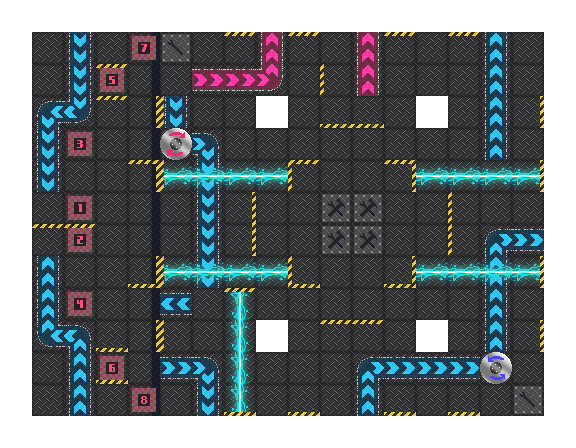
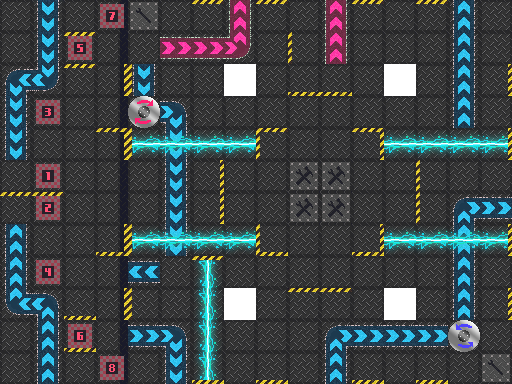
Map properly displayed as background, flags to be placed displayed to the left  - Added methods to calculate if mouse click is inside the map  - Added numbers to be used to convert mouse x and y to map position  - new background for setting up map

diff --git a/src/main/java/inf112/roborally/game/screens/SetupScreen.java b/src/main/java/inf112/roborally/game/screens/SetupScreen.java
@@ -4,13 +4,19 @@ import com.badlogic.gdx.Gdx;
 import com.badlogic.gdx.Input;
 import com.badlogic.gdx.graphics.Texture;
 import com.badlogic.gdx.graphics.g2d.Sprite;
+import com.badlogic.gdx.graphics.g2d.TextureAtlas;
+import com.badlogic.gdx.graphics.g2d.TextureRegion;
 import com.badlogic.gdx.scenes.scene2d.InputEvent;
 import com.badlogic.gdx.scenes.scene2d.Stage;
+import com.badlogic.gdx.scenes.scene2d.ui.Image;
 import com.badlogic.gdx.scenes.scene2d.ui.ImageButton;
 import com.badlogic.gdx.scenes.scene2d.utils.ClickListener;
 import com.badlogic.gdx.scenes.scene2d.utils.TextureRegionDrawable;
+import com.badlogic.gdx.utils.Align;
 import inf112.roborally.game.RoboRallyGame;
 import inf112.roborally.game.enums.SetupState;
+import inf112.roborally.game.objects.Flag;
+import org.lwjgl.Sys;
 
 import java.util.ArrayList;
 
@@ -21,6 +27,20 @@ public class SetupScreen extends AbstractScreen {
     private SetupState state;
 
     private ArrayList<Sprite> information;
+    private ArrayList<Sprite> flags;
+    private boolean placeFlags;
+
+    // One til tile, when width is 1920, is 90 pixels
+    // That makes it 1 of 23,333 parts of the screen
+    private final float NUMBERS_OF_TILES_IN_WIDTH = 21.333f;
+    private final int TILE_SIZE_IN_FULLSCRREEN = 90;
+    private final int N_TILES = 12; //12x12 tiles
+
+    // Information about current map size
+    private float mapWidth;
+    private float currentTileSize;
+    private float currentMapSize;
+    private float mapStartX;
 
     // Player choices to be added to the game screen
     private int robotChoiceIndex;
@@ -34,7 +54,9 @@ public class SetupScreen extends AbstractScreen {
 
         information = new ArrayList<>();
         this.possibleFilepaths = possibleFilepaths;
-        
+        placeFlags = false;
+
+
         createSkinButtons();
         state = SetupState.PICKINGSKIN;
 
@@ -84,14 +106,23 @@ public class SetupScreen extends AbstractScreen {
 
     private void createMapForPlacingFlags() {
         state = SetupState.PLACINGFLAGS;
-        Sprite map = new Sprite(new Texture("assets/maps/vault.png"));
-        map.scale(1.0f);
-        // The positioning is a little bit off
-        map.setPosition(Gdx.graphics.getWidth() / 2 + map.getWidth()/2, Gdx.graphics.getHeight() / 2);
-        information.add(map);
+        System.out.printf("Game size BEFORE scaling window: WIDTH=% d, HEIGHT=%d%n",
+                Gdx.graphics.getWidth(), Gdx.graphics.getHeight());
 
+        // One tile here, inn full screen, is approx. 90x90
+        updateBackground("assets/backgrounds/setupscreenPlaceFlags.png");
+        updateMapNumbers();
 
+        flags = new ArrayList<>();
+        for(int i = 3; i > 0; i--) {
+            Sprite flag = new Sprite(new TextureRegion(new Texture("assets/objects/flags.png"), 150*(i-1), 0,150, 150));
+            flag.setPosition(100, 200*i);
+            flags.add(flag);
+        }
+        placeFlags = true;
     }
+
+
 
     @Override
     public void render(float v) {
@@ -103,6 +134,13 @@ public class SetupScreen extends AbstractScreen {
         for (Sprite sprite : information) {
             sprite.draw(batch);
         }
+
+        if (placeFlags) {
+            for(Sprite flag : flags) {
+                flag.draw(batch);
+            }
+        }
+
         batch.end();
         handleInput();
 
@@ -110,8 +148,8 @@ public class SetupScreen extends AbstractScreen {
 
     }
 
-    private void handleInput() {
 
+    private void handleInput() {
 
         if(Gdx.input.isKeyJustPressed(Input.Keys.T)) {
             System.out.println("Key T pressed in SetupScreen, moving further");
@@ -120,16 +158,45 @@ public class SetupScreen extends AbstractScreen {
             dispose();
         }
 
+        // Possible to add more SetupStates
         switch (state) {
             case PLACINGFLAGS:
+                // The map has 2 invisible tiles at all sides
                 if(Gdx.input.justTouched()) {
-                    System.out.printf("Mouse just pressed, at coordinates x = %d and y = %d",
-                            Gdx.input.getX(), Gdx.input.getY());
+                    float mouseX = Gdx.input.getX();
+                    float mouseY = Gdx.input.getY();
+                    System.out.printf("Mouse just pressed, at coordinates x = %.2f and y = %.2f",
+                                mouseX, mouseY);
                     System.out.print("\n");
+
+
+                    System.out.printf("Current TileSize = %.2f, Current MapSize = %.2f%nWidth minus map should be %.2f%n",
+                            currentTileSize, currentMapSize, mapStartX);
+                    if(mouseX >= mapStartX) {
+                        System.out.println("Mouse clicked INSIDE the map");
+                        convertMouseClickIntoMapPosition(mouseX, mouseY);
+                    }
+                    else {
+                        System.out.println("Mouse clicked OUTSIDE the map");
+                    }
+
+                    System.out.println("-------------------------------------------------------");
                 }
+                break;
         }
     }
 
+    private void convertMouseClickIntoMapPosition(float mouseX, float mouseY) {
+
+    }
+
+    private void updateMapNumbers() {
+        mapWidth = Gdx.graphics.getWidth();
+        currentTileSize = mapWidth/NUMBERS_OF_TILES_IN_WIDTH;
+        currentMapSize = currentTileSize * N_TILES;
+        // Map starts at left, so we need to find the map starting x value:
+        mapStartX = mapWidth - currentMapSize;
+    }
 
     private void setRobotChoice(int index) {
         robotChoiceIndex = index;
@@ -148,10 +215,17 @@ public class SetupScreen extends AbstractScreen {
     }
 
     
-    private void createGameScreen() {
+    private void createGameScreenFromSetup() {
         game.createGameScreen(robotChoiceIndex);
         game.setScreen(game.gameScreen);
         dispose();
+    }
+
+    @Override
+    public void resize(int w, int h) {
+        super.resize(w,h);
+        // Only need to update the map numbers whenever the screen is resized
+        updateMapNumbers();
     }
 
     @Override

diff --git a/src/main/java/inf112/roborally/game/RoboRallyGame.java b/src/main/java/inf112/roborally/game/RoboRallyGame.java
@@ -57,7 +57,6 @@ public class RoboRallyGame extends Game {
 
 //        testScreen = new TestScreen(this);
         menuScreen = new MenuScreen(this);
-        setupScreen = new SetupScreen(this, possibleRobotSkinFilepaths);
 //        gameScreen = new GameScreen(this, VAULT);
         endGameScreen = new EndGameScreen(this);
         setScreen(menuScreen);
@@ -77,6 +76,10 @@ public class RoboRallyGame extends Game {
     public void newGame() {
         dispose();
         create();
+    }
+
+    public void createSetupScreen() {
+        setupScreen = new SetupScreen(this, possibleRobotSkinFilepaths);
     }
 
     public void createGameScreen(int robotChoiceIndex) {

diff --git a/src/main/java/inf112/roborally/game/screens/GameScreen.java b/src/main/java/inf112/roborally/game/screens/GameScreen.java
@@ -68,9 +68,9 @@ public class GameScreen implements Screen {
             if(index >= n) {
                 index = 0;
             }
-            namebuilder.append(Integer.toString(i));
+            namebuilder.append(Integer.toString(i+1));
             board.addPlayer(new Player(namebuilder.toString(), filepaths[index], NORTH, board));
-            namebuilder.deleteCharAt(5); // Delete the last character, which is the player number
+            namebuilder.deleteCharAt(6); // Delete the last character, which is the player number
             index++;
         }
     }

diff --git a/src/main/java/inf112/roborally/game/screens/AbstractScreen.java b/src/main/java/inf112/roborally/game/screens/AbstractScreen.java
@@ -49,6 +49,7 @@ public abstract class AbstractScreen implements Screen {
 
     @Override
     public void resize(int w, int h) {
+        game.dynamicViewPort.update(w, h);
         game.fixedViewPort.update(w, h);
     }
 
@@ -70,6 +71,10 @@ public abstract class AbstractScreen implements Screen {
     @Override
     public void dispose() {
 
+    }
+
+    public void updateBackground(String filepath) {
+        background = new Sprite(new Texture(filepath));
     }
 
 }

diff --git a/src/main/java/inf112/roborally/game/screens/MenuScreen.java b/src/main/java/inf112/roborally/game/screens/MenuScreen.java
@@ -66,6 +66,7 @@ public class MenuScreen implements Screen {
     private void handleInput() {
         if (Gdx.input.isKeyJustPressed(Input.Keys.ENTER)) {
 //            roboRallyGame.setScreen(roboRallyGame.gameScreen);
+            roboRallyGame.createSetupScreen();
             roboRallyGame.setScreen(roboRallyGame.setupScreen);
             dispose();
         }

diff --git a/src/main/java/inf112/roborally/game/objects/Flag.java b/src/main/java/inf112/roborally/game/objects/Flag.java
@@ -26,5 +26,9 @@ public class Flag extends GameObject {
     public int getFlagNumber() {
         return flagNumber;
     }
+
+    public void scaleFlag(float scale) {
+        sprite.scale(scale);
+    }
 }
 
